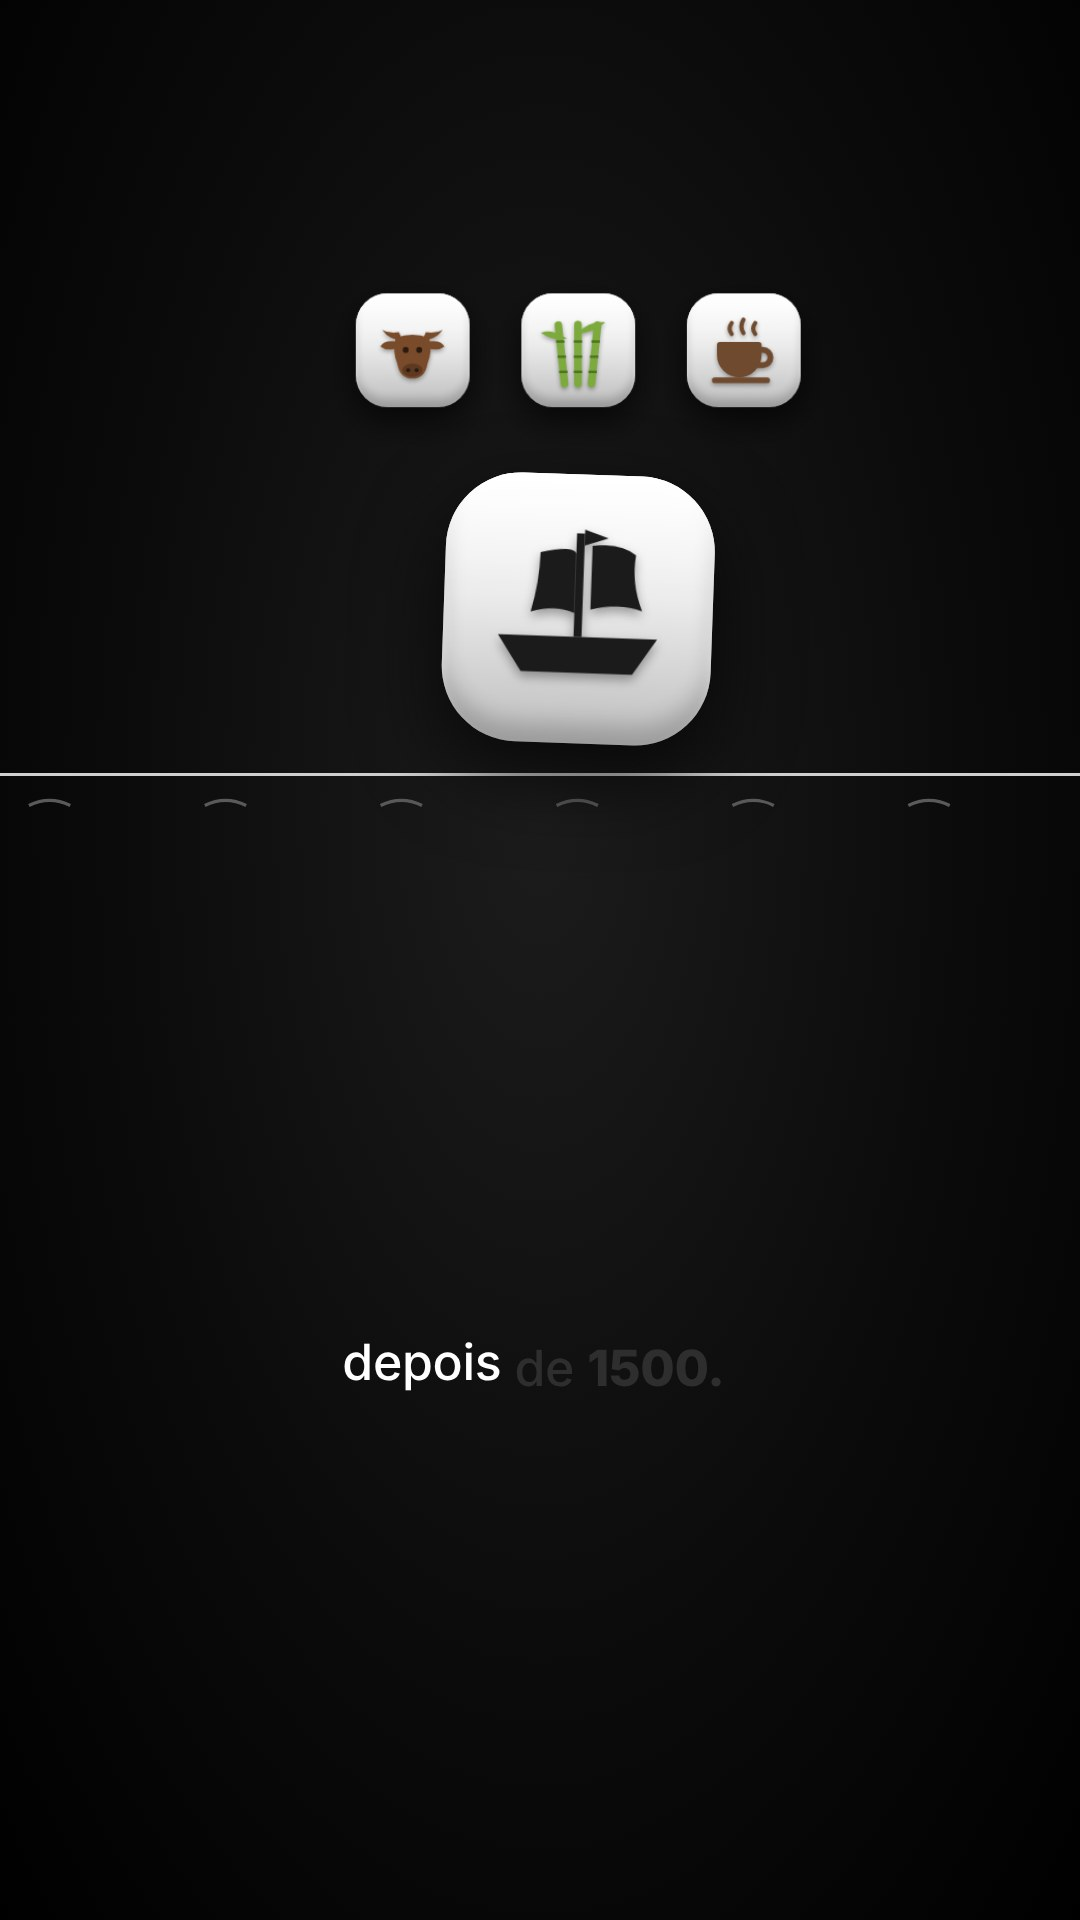
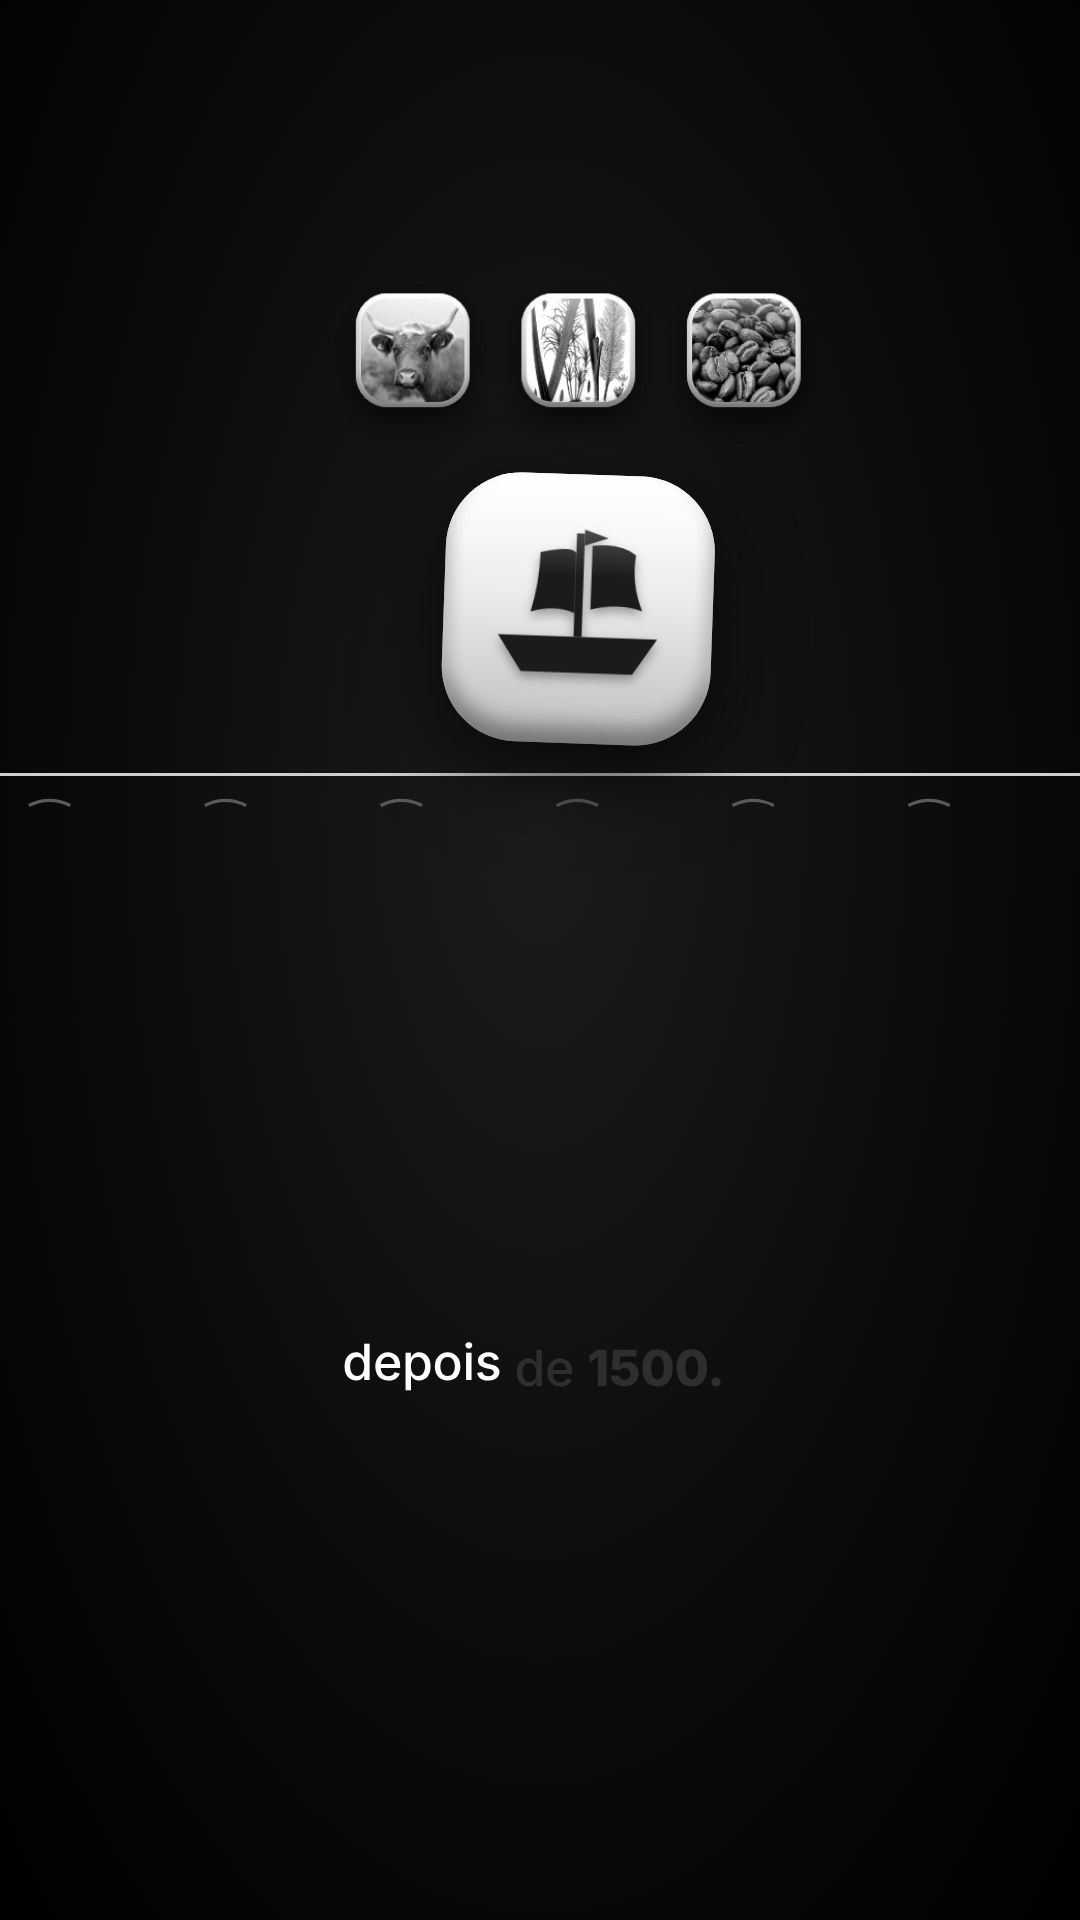
Fotos reais P&B dentro dos ícones; storyboard refeito
Claude-Session: https://claude.ai/code/session_01RMhrmGVZ8xvx14hiJXZHtB

diff --git a/src/componentes/Icone3D.tsx b/src/componentes/Icone3D.tsx
@@ -15,7 +15,7 @@ export const Icone3D: React.FC<{ nome: string; variante?: Cor; tamanho: number; 
   style,
 }) => {
   const vermelho = variante === "vermelho";
-  const foto = useContext(FotosIcones)[nome];
+  const [foto, posicao] = (useContext(FotosIcones)[nome] ?? "").split("|");
   const raio = tamanho * 0.28;
   return (
     <div
@@ -37,7 +37,7 @@ export const Icone3D: React.FC<{ nome: string; variante?: Cor; tamanho: number; 
         ...style,
       }}
     >
-      {foto ? (
+      {foto && !vermelho ? (
         <Img
           src={staticFile(foto)}
           style={{
@@ -47,6 +47,7 @@ export const Icone3D: React.FC<{ nome: string; variante?: Cor; tamanho: number; 
             height: tamanho * 0.91,
             borderRadius: raio * 0.85,
             objectFit: "cover",
+            objectPosition: posicao || "50% 50%",
             filter: `grayscale(1) contrast(1.12) brightness(1.02)`,
             boxShadow: "inset 0 0 0 1px rgba(0,0,0,0.2)",
           }}

diff --git a/scripts/storyboard.ts b/scripts/storyboard.ts
@@ -20,6 +20,7 @@ const pasta = path.join(raiz, "videos", slug);
 const roteiro: Roteiro = JSON.parse(readFileSync(path.join(pasta, "roteiro.json"), "utf8"));
 const faltando = roteiro.cenas
   .map((c) => ("imagem" in c.visual ? c.visual.imagem : null))
+  .concat(Object.values(roteiro.fotosIcones ?? {}).map((v) => v.split("|")[0]))
   .filter((x): x is string => !!x && !existsSync(path.join(pasta, x)));
 if (faltando.length) throw new Error(`Imagens ausentes: ${faltando.join(", ")}`);
 

diff --git a/videos/2026-11-23-brasil-nao-tinha-cafe/imagens/FONTES.md b/videos/2026-11-23-brasil-nao-tinha-cafe/imagens/FONTES.md
@@ -5,3 +5,17 @@
 | cafe.jpg | *Coffea arabica*, prancha de Köhler's Medizinal-Pflanzen (1887) | https://commons.wikimedia.org/wiki/File:Coffea_arabica_-_K%C3%B6hler%E2%80%93s_Medizinal-Pflanzen-189.jpg | Domínio público |
 | cantino.jpg | Planisfério de Cantino (1502), Biblioteca Estense, Módena | https://commons.wikimedia.org/wiki/File:Cantino_planisphere_(1502).jpg | Domínio público |
 | variola.jpg | Códice Florentino, livro XII, f. 54 — nahuas com varíola (séc. XVI) | https://commons.wikimedia.org/wiki/File:FlorentineCodex_BK12_F54_smallpox.jpg | Domínio público |
+
+## Fotos dentro dos ícones (`imagens/icones/`)
+
+| Arquivo | Obra / autor | Fonte | Licença |
+|---|---|---|---|
+| cafe.jpg | Roasted coffee beans — MarkSweep | https://commons.wikimedia.org/wiki/File:Roasted_coffee_beans.jpg | Domínio público |
+| boi.jpg | Cow horned portrait — Ernst Vikne | https://commons.wikimedia.org/wiki/File:Cow_horned_portrait.jpg | CC BY-SA 2.0 |
+| cana.jpg | *Saccharum officinarum*, Köhler's Medizinal-Pflanzen (1887) | https://commons.wikimedia.org/wiki/File:Saccharum_officinarum_-_K%C3%B6hler%E2%80%93s_Medizinal-Pflanzen-125.jpg | Domínio público |
+| cavalo.jpg | Nokota Horses (cropped) — François Marchal | https://commons.wikimedia.org/wiki/File:Nokota_Horses_cropped.jpg | CC BY-SA 3.0 |
+| tomate.jpg | Bright red tomato and cross section — fir0002 / flagstaffotos | https://commons.wikimedia.org/wiki/File:Bright_red_tomato_and_cross_section02.jpg | GFDL 1.2 |
+| batata.jpg | Patates — Scott Bauer, USDA ARS | https://commons.wikimedia.org/wiki/File:Patates.jpg | Domínio público |
+| chocolate.jpg | Chocolate — André Karwath (Aka) | https://commons.wikimedia.org/wiki/File:Chocolate.jpg | CC BY-SA 2.5 |
+
+Licenças CC BY-SA/GFDL pedem crédito: incluir os autores acima na legenda do post ("Imagens: Wikimedia Commons — Ernst Vikne, François Marchal, fir0002, André Karwath").
